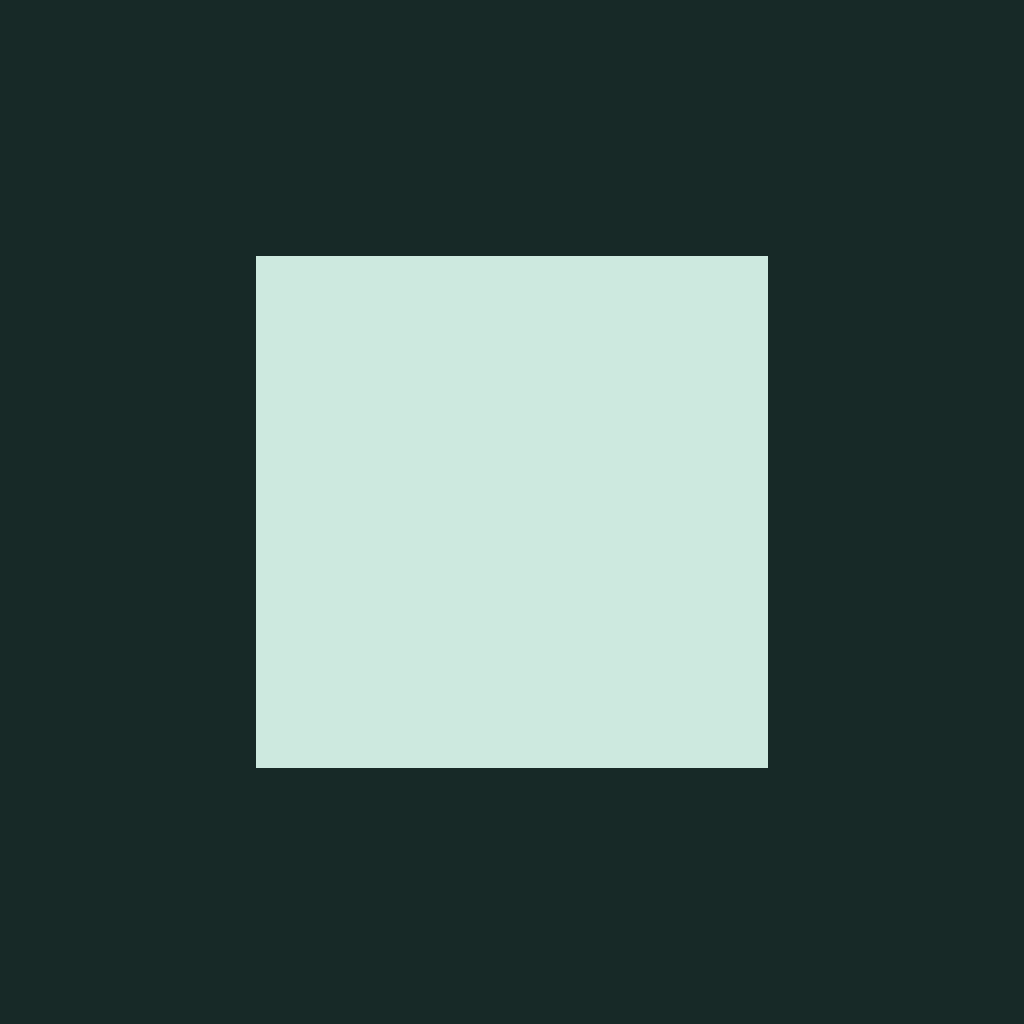
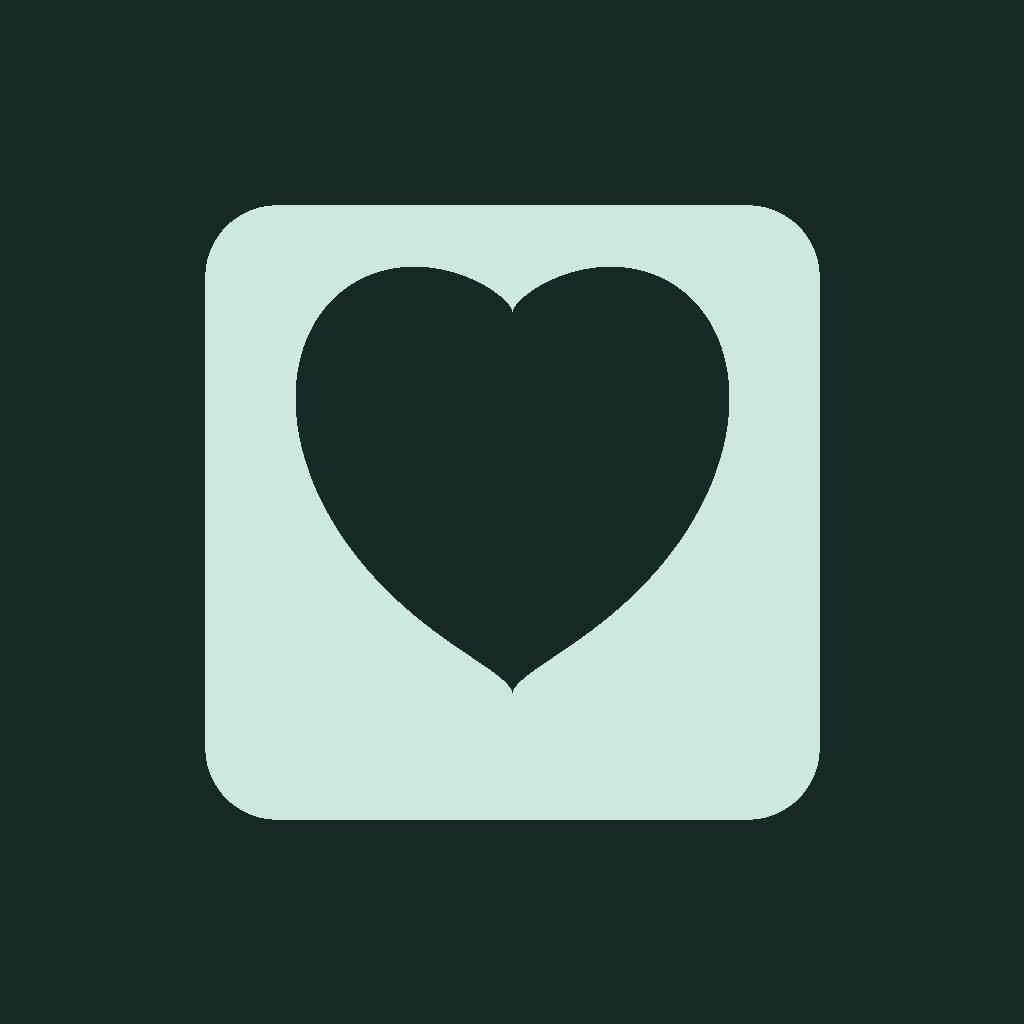
Design polish: elevation tokens, real brand mark assets
- Add cross-platform elevation tokens (iOS shadow + Android elevation) and
  apply card elevation + larger corner radius to the Card surface.
- Replace the placeholder solid-square icon/splash with a recognizable
  greeting-card brand mark (mint card + deep-green heart) drawn with real shape
  math; regenerate icon, adaptive icon, and splash. Still a generated stand-in
  to be replaced with final artwork before submission.

Changed region(s): [[0.1875, 0.1875, 0.8125, 0.8125]]

diff --git a/apps/mobile/src/components/index.tsx b/apps/mobile/src/components/index.tsx
@@ -12,7 +12,7 @@ import {
 } from "react-native";
 
 import { userMessageForError } from "../lib/api/errors";
-import { colors, minTouchTarget, radius, spacing, typography } from "../theme";
+import { colors, elevation, minTouchTarget, radius, spacing, typography } from "../theme";
 
 export function LoadingState({ label = "Loading…" }: { label?: string }) {
   return (
@@ -256,11 +256,12 @@ const styles = StyleSheet.create({
   fieldError: { fontSize: 13, color: colors.danger },
   card: {
     backgroundColor: colors.surface,
-    borderRadius: radius.md,
+    borderRadius: radius.lg,
     borderWidth: 1,
     borderColor: colors.border,
     padding: spacing.lg,
-    gap: spacing.sm
+    gap: spacing.sm,
+    ...elevation.card
   },
   sectionHeading: { gap: spacing.xs, marginTop: spacing.lg, marginBottom: spacing.sm },
   cardRow: {

diff --git a/apps/mobile/src/theme/index.ts b/apps/mobile/src/theme/index.ts
@@ -49,5 +49,23 @@ export const typography = {
   }
 } as const;
 
+/** Cross-platform elevation (iOS shadow + Android elevation) for surfaces. */
+export const elevation = {
+  card: {
+    shadowColor: "#0d1f1c",
+    shadowOpacity: 0.06,
+    shadowRadius: 10,
+    shadowOffset: { width: 0, height: 2 },
+    elevation: 2
+  },
+  raised: {
+    shadowColor: "#0d1f1c",
+    shadowOpacity: 0.12,
+    shadowRadius: 16,
+    shadowOffset: { width: 0, height: 6 },
+    elevation: 6
+  }
+} as const;
+
 /** Minimum accessible touch target size (iOS HIG 44pt / Android 48dp). */
 export const minTouchTarget = 44;
